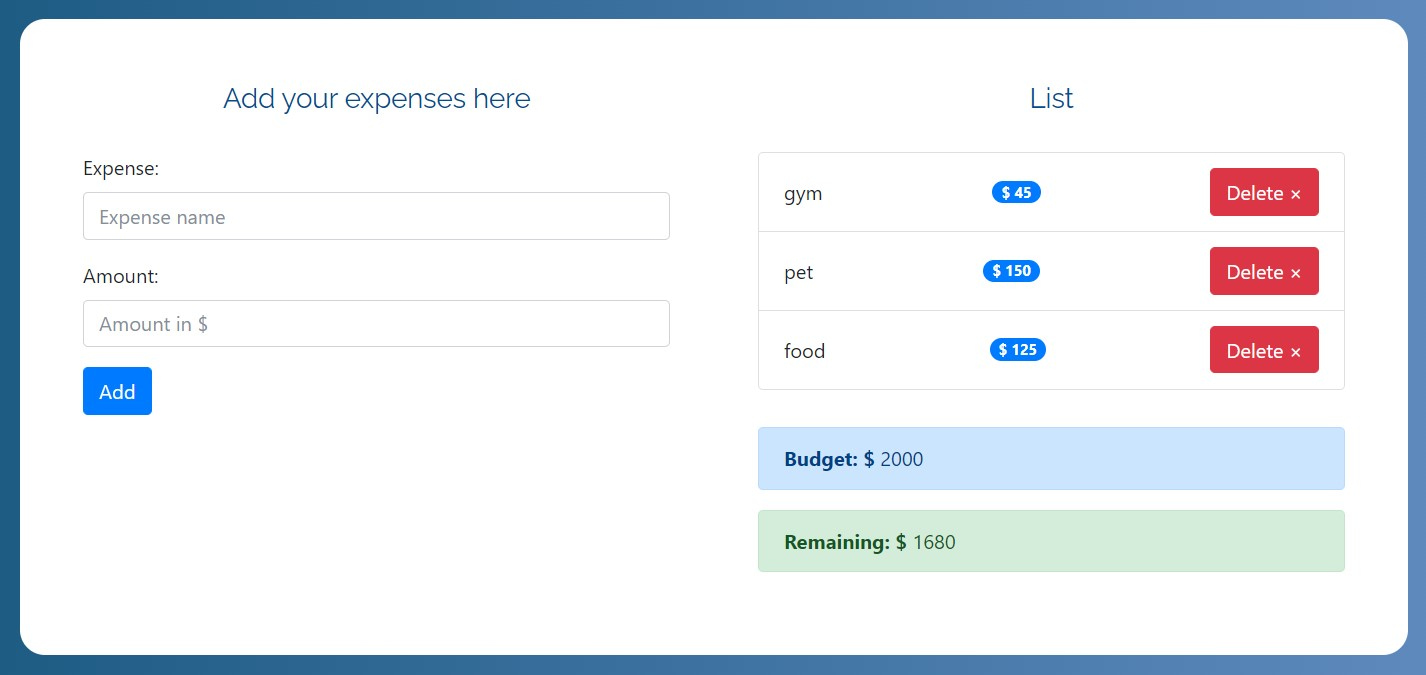
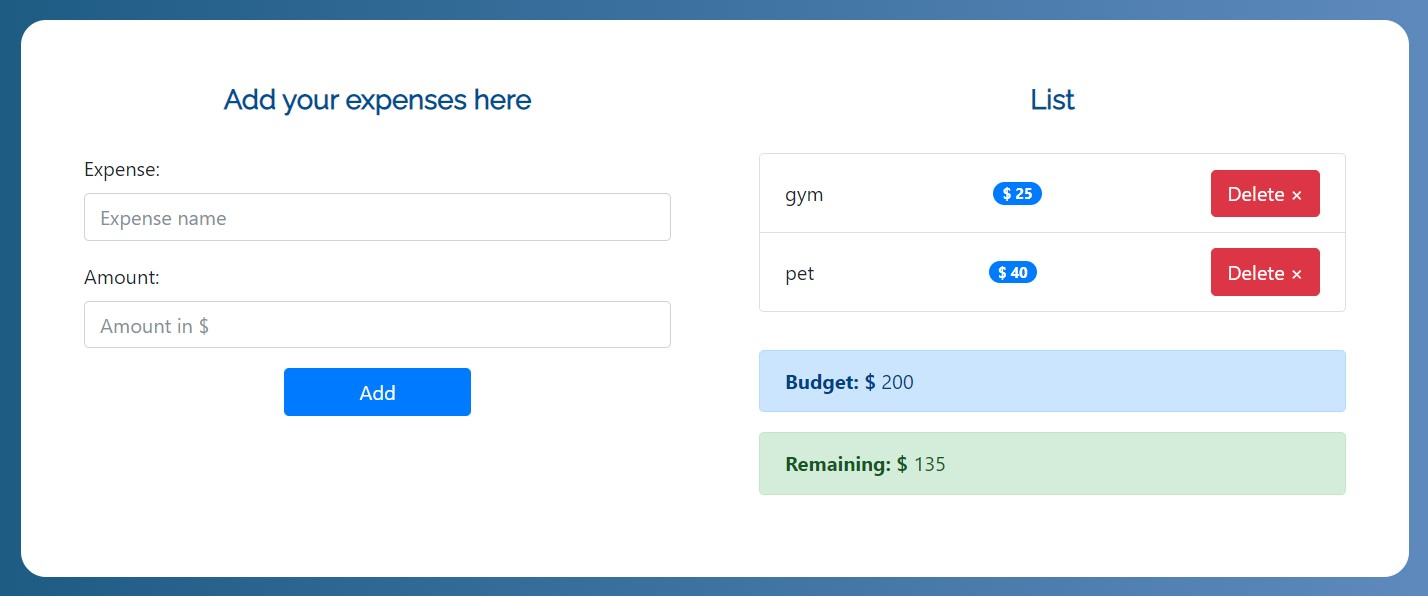
Responsive Design

diff --git a/css/styles.css b/css/styles.css
@@ -257,8 +257,8 @@ p {
 }
 /* ******** img container ******** */
 .img-container {
+  max-height: 100%;
   max-width: 50%;
-  max-height: auto;
   margin-top: -140px;
   display: block;
   margin-left: auto;
@@ -267,9 +267,21 @@ p {
 
 @media screen and (max-width: 727px) {
   .img-container {
-    margin-top: -20px;
+    margin-top: -50px;
     max-height: 100%;
-    max-width: 90%;
+    max-width: 80%;
+    border-radius: 1px;
+    display: block;
+    margin-left: auto;
+    margin-right: auto;
+  }
+}
+
+@media screen and (min-width: 727px) and (max-width: 1023px) {
+  .img-container {
+    margin-top: -250px;
+    max-height: 100%;
+    max-width: 80%;
     border-radius: 1px;
     display: block;
     margin-left: auto;
@@ -318,11 +330,27 @@ p {
   .btn-get {
     display: none;
   }
+
+  .budget-smart {
+    height: 140px;
+    width: auto;
+    display: block;
+    margin-top: -70px;
+    margin-left: 73%;
+  }
 }
 
 @media screen and (min-width: 767px) and (max-width: 1023px) {
   .btn-get {
     display: none;
+  }
+
+  .budget-smart {
+    height: 200px;
+    width: auto;
+    display: block;
+    margin-top: -150px;
+    margin-left: 82%;
   }
 }
 
@@ -382,6 +410,14 @@ p {
 
   .text-lg-right {
     text-align: right;
+  }
+
+  .budget-smart {
+    height: 340px;
+    width: auto;
+    display: block;
+    margin-top: -270px;
+    margin-left: 72%;
   }
 }
 

diff --git a/css/custom.css b/css/custom.css
@@ -6,6 +6,7 @@ body {
 header {
   margin: 30px 0;
 }
+
 .contenido {
   padding: 20px;
 }
@@ -35,4 +36,55 @@ h2 {
   color: #004e92;
   font-size: 22px;
   margin-bottom: 30px;
+}
+
+/* Queries */
+
+@media screen and (max-width: 767px) {
+  .container {
+    margin-top: 7vh;
+  }
+
+  .text-center {
+    font-size: 20px;
+    font-weight: 600;
+  }
+
+  .btn-width {
+    display: block;
+    margin-left: auto;
+    margin-right: auto;
+    width: 150px;
+  }
+}
+
+@media screen and (min-width: 767px) and (max-width: 1023px) {
+  .container {
+    margin-top: 20vh;
+  }
+
+  .btn-width {
+    display: block;
+    margin-left: auto;
+    margin-right: auto;
+    width: 150px;
+  }
+}
+
+@media screen and (min-width: 1024px) {
+  .container {
+    margin-top: 20vh;
+  }
+
+  .text-center {
+    font-size: 22px;
+    font-weight: 600;
+  }
+
+  .btn-width {
+    display: block;
+    margin-left: auto;
+    margin-right: auto;
+    width: 150px;
+  }
 }

diff --git a/budget.html b/budget.html
@@ -17,9 +17,9 @@
   </head>
   <body>
     <div class="container">
-      <header>
+      <!--    <header>
         <h1 class="text-center">Monthly Budget</h1>
-      </header>
+      </header> -->
       <section class="contenido-principal">
         <div class="row">
           <div class="col">
@@ -45,7 +45,9 @@
                   />
                 </div>
 
-                <button type="submit" class="btn btn-primary">Add</button>
+                <button type="submit" class="btn btn-width btn-primary">
+                  Add
+                </button>
               </form>
             </div>
             <!--.contenido-->

diff --git a/index.html b/index.html
@@ -69,7 +69,11 @@
       <img src="./images/budget.jpg" class="box-shadow-1" alt="Budget App" />
     </div>
     <!-- End Container Image -->
-
+    <img
+      src="./images/budget-smart.jpg"
+      class="box-shadow-1 budget-smart"
+      alt="Budget App"
+    />
     <!--   Flex Container -->
     <section>
       <br />
